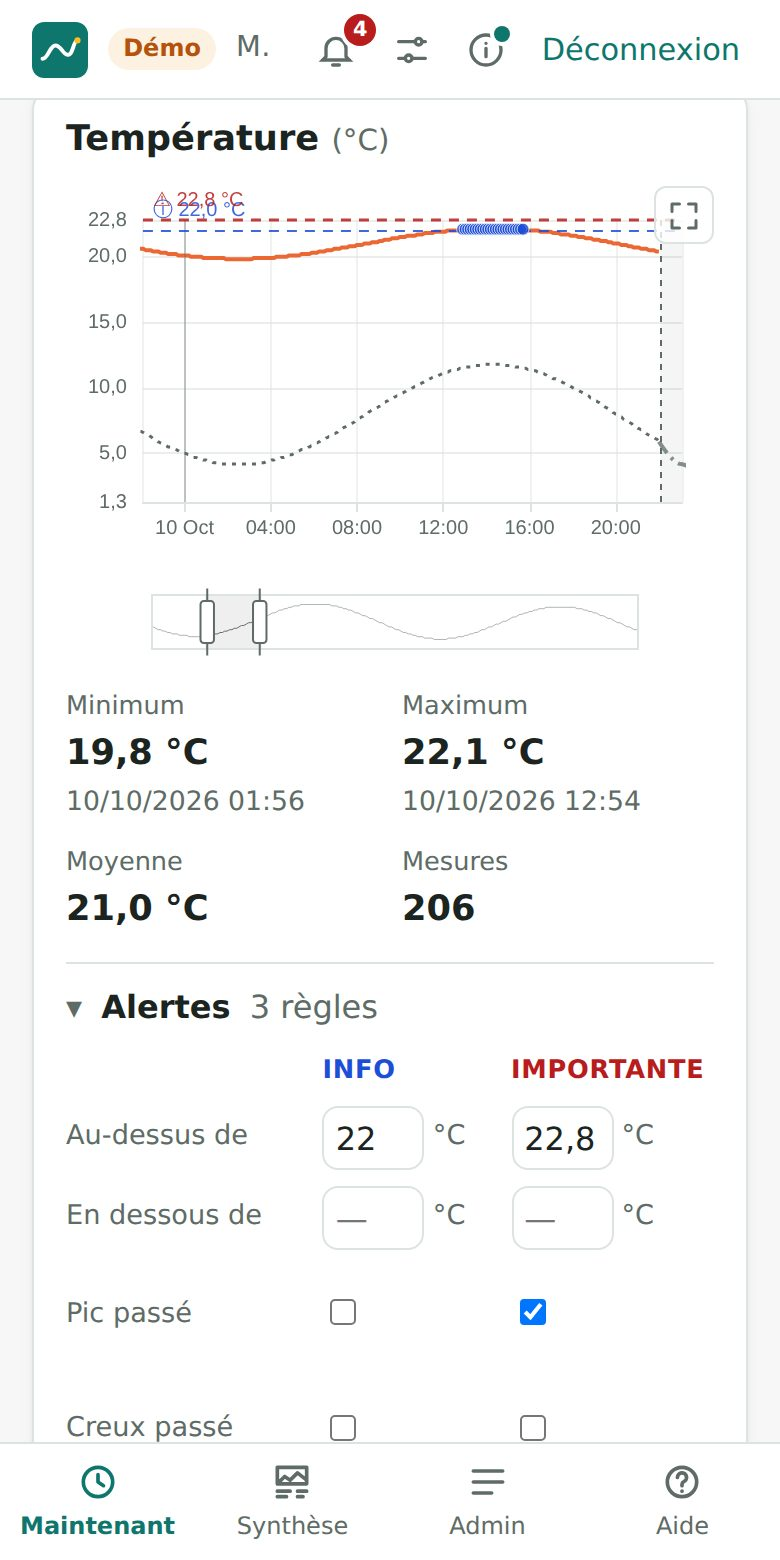
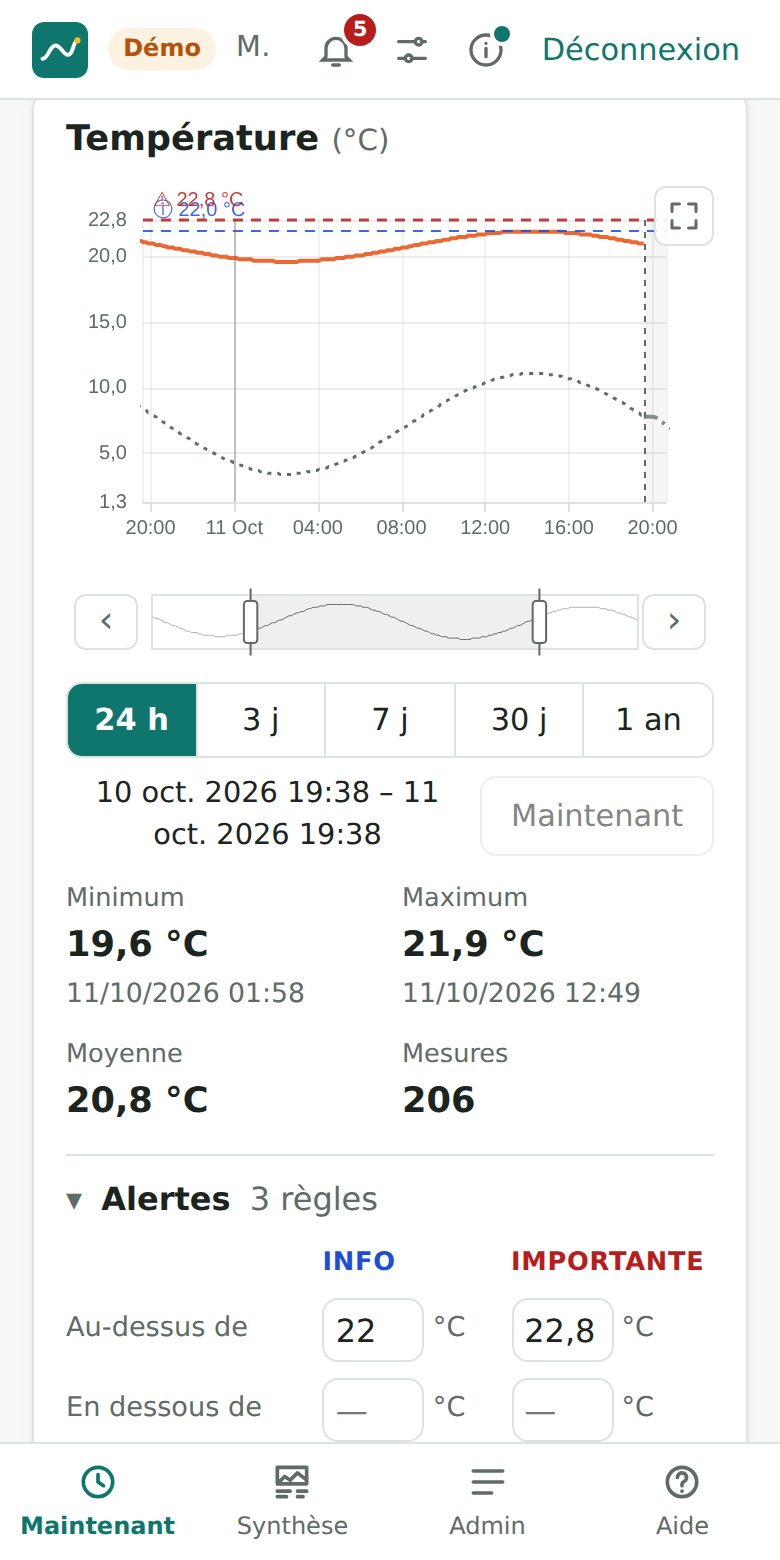
Barre de glissement adaptative et navigation ‹ › sous les courbes
- La barre sous chaque courbe s'élargit quand une poignée atteint un bord (au relâchement) et se
  remet à l'échelle quand la période est réduite (période ≈ 60 % de la barre).
- Boutons ‹ › de part et d'autre de la barre (période précédente / suivante), y compris dans la
  Synthèse ; lien « période actuelle › » pour revenir au présent.
- Durées et bouton Maintenant placés sous la barre de la première courbe.
- Axe puis fenêtre appliqués séparément lors du recalcul : la fin de la fenêtre ne dérive plus.
- Guide, nouveautés et captures mis à jour.

Claude-Session: https://claude.ai/code/session_01S8T51Gz5r7Wp5yiWDXawbP

diff --git a/web/src/components/TimeChart.svelte b/web/src/components/TimeChart.svelte
@@ -8,7 +8,7 @@
   import { onMount } from "svelte";
   import type { ECharts } from "echarts/core";
   import { cssVar } from "../lib/colors";
-  import type { Window } from "../lib/period";
+  import { barRange, needsRescale, shiftWindow, type Window } from "../lib/period";
   import type { Point } from "../lib/types";
   import { GAP, curveData, valueAt, type CurveMode } from "../lib/curve";
   import { WEEKLY_FROM, bandMain, ghostLevel, gridLines, scaleOf, weeklyBands, type DayBand } from "../lib/longview";
@@ -77,6 +77,14 @@
   let full = $state(false);
   let chart: ECharts | null = null;
   let applied: Window = [0, 0];
+  /**
+   * Étendue de la barre de glissement (et de l'axe) : un peu plus large que la fenêtre, recalculée
+   * quand une poignée atteint un bord ou que la fenêtre devient trop petite ou trop grande pour elle ;
+   * on peut ainsi continuer à glisser ou étirer sans limite
+   */
+  let bar: Window = [0, 0];
+  let dragging = false;
+  let rescaleTimer: ReturnType<typeof setTimeout> | undefined;
   let timer: ReturnType<typeof setTimeout> | undefined;
 
   const decimals = $derived(unit === "%" ? 0 : 1);
@@ -106,8 +114,11 @@
   function option() {
     const text = cssVar("--text"), muted = cssVar("--muted"), border = cssVar("--border"), surface = cssVar("--surface");
     const now = Date.now();
-    const axisMax = Math.max(loaded[1], futureEnd);
     const [ws, we] = shown(window);
+    const limit = Math.max(now, futureEnd);
+    // (jamais pendant un glissement : la barre bougerait sous le doigt ; recalcul au relâchement)
+    if (bar[1] <= bar[0] || (!dragging && needsRescale([ws, we], bar, limit))) bar = barRange([ws, we], limit);
+    const axisMax = bar[1];
     // Repères verticaux selon la largeur visible ; au-delà d'une semaine, pas de points d'alerte
     // (trop nombreux) ni de quadrillage horaire
     const scale = scaleOf([ws, we]);
@@ -146,7 +157,7 @@
       grid: oncursor ? { left: 46, right: 16, top: 12, bottom: 64, containLabel: false }
         : { left: 8, right: endLabels ? 96 : 16, top: 12, bottom: 64, containLabel: true },
       xAxis: {
-        type: "time", min: loaded[0], max: axisMax,
+        type: "time", min: bar[0], max: axisMax,
         axisLine: { lineStyle: { color: border } }, axisTick: { lineStyle: { color: border } },
         axisLabel: {
           color: muted, hideOverlap: true,
@@ -259,7 +270,7 @@
         markLine: {
           silent: true, symbol: "none", animation: false, label: { show: false },
           lineStyle: { color: muted, type: "solid", width: 1, opacity: scale === "day" ? 0.35 : 0.25 },
-          data: gridLines(loaded[0], axisMax, scale).map((t) => ({ xAxis: t })),
+          data: gridLines(bar[0], axisMax, scale).map((t) => ({ xAxis: t })),
         },
       },
       // Futur (prévisions) : zone légèrement grisée, trait « maintenant »
@@ -424,11 +435,17 @@
       });
       chart.on("datazoom", () => {
         const dz = (chart!.getOption() as { dataZoom: { startValue: number; endValue: number }[] }).dataZoom[0];
-        const w: Window = [Math.round(dz.startValue), Math.round(dz.endValue)];
+        let w: Window = [Math.round(dz.startValue), Math.round(dz.endValue)];
+        // Fin laissée sur l'heure de prévision ajoutée à l'affichage : la fenêtre reste calée sur maintenant
+        const [, se] = shown(window);
+        if (se !== window[1] && Math.abs(w[1] - se) < 5 * 60_000) w = [w[0], window[1]];
         applied = w;
         clearTimeout(timer);
         timer = setTimeout(() => onwindow?.(w), 250);
+        scheduleRescale();
       });
+      // Glissement des poignées : la barre se recalcule une fois le doigt (ou la souris) relâché
+      chart.getZr().on("mousedown", () => (dragging = true));
       render();
       ro.observe(el);
       scheme.addEventListener("change", onScheme);
@@ -458,12 +475,48 @@
     if (chart && oncursor) chart.setOption({ series: [cursorSeries()] });
   });
 
+  /** Après un glissement ou un zoom : barre recalculée si la fenêtre touche un bord ou n'est plus à l'échelle */
+  function scheduleRescale(ms = 400) {
+    clearTimeout(rescaleTimer);
+    rescaleTimer = setTimeout(() => {
+      if (dragging || !chart) return;
+      const limit = Math.max(Date.now(), futureEnd);
+      if (!needsRescale(shown(applied), bar, limit)) return;
+      const [ss, se] = shown(applied);
+      bar = barRange([ss, se], limit);
+      // Axe d'abord, fenêtre ensuite : dans un même appel, ECharts convertirait les bornes de la fenêtre
+      // en pourcentages de l'ancienne barre (la fin glisserait d'un recalcul à l'autre)
+      chart.setOption({ xAxis: { min: bar[0], max: bar[1] } });
+      chart.dispatchAction({ type: "dataZoom", startValue: ss, endValue: se });
+    }, ms);
+  }
+  onMount(() => {
+    const up = () => { if (dragging) { dragging = false; scheduleRescale(150); } };
+    addEventListener("pointerup", up);
+    addEventListener("touchend", up);
+    return () => { removeEventListener("pointerup", up); removeEventListener("touchend", up); clearTimeout(rescaleTimer); };
+  });
+
+  /** Période précédente / suivante (boutons de part et d'autre de la barre) */
+  const limitNow = () => Math.max(Date.now(), futureEnd);
+  const atLimit = $derived(window[1] >= limitNow() - 60_000);
+  function shift(dir: -1 | 1) {
+    onwindow?.(shiftWindow(window, dir, limitNow()));
+  }
+
   // Fenêtre changée par les boutons (et non par un glissement sur la courbe) : on la déplace
   $effect(() => {
     const [s, e] = window;
     if (!chart || (Math.abs(s - applied[0]) < 1000 && Math.abs(e - applied[1]) < 1000)) return;
     applied = [s, e];
     const [ss, se] = shown([s, e]);
+    const limit = Math.max(Date.now(), futureEnd);
+    // Fenêtre hors de la barre ou plus à son échelle (durée choisie, période précédente…) : nouvelle barre
+    if (needsRescale([ss, se], bar, limit)) {
+      bar = barRange([ss, se], limit);
+      render();
+      return;
+    }
     chart.dispatchAction({ type: "dataZoom", startValue: ss, endValue: se });
   });
 </script>
@@ -471,6 +524,11 @@
 <div class="box" class:full bind:this={box}>
   {#if full}<div class="full-title">{label}</div>{/if}
   <div class="chart" class:loading style={full ? "" : `height:${height}px`} bind:this={el} role="img" aria-label={label}></div>
+  {#if onwindow}
+    <!-- Période précédente / suivante, de part et d'autre de la barre de glissement -->
+    <button class="nav prev" onclick={() => shift(-1)} title="Période précédente" aria-label="Période précédente">‹</button>
+    <button class="nav next" onclick={() => shift(1)} disabled={atLimit} title="Période suivante" aria-label="Période suivante">›</button>
+  {/if}
   {#if fullscreen || full}<button class="fs" onclick={toggleFull} title={full ? "Quitter le plein écran" : "Plein écran"}
           aria-label={full ? "Quitter le plein écran" : `Plein écran : ${label}`}>
     <svg viewBox="0 0 24 24" width="18" height="18" aria-hidden="true">
@@ -487,6 +545,15 @@
   .fs { position: absolute; top: 0; right: 0; min-height: 0; padding: 0.3rem; border-radius: 6px;
         background: color-mix(in srgb, var(--surface) 80%, transparent); color: var(--muted); z-index: 2; }
   .fs:hover { color: var(--text); }
+  /* Alignés sur la barre de glissement (hauteur 28 px, à 8 px du bas, marges de 40 px) */
+  .nav { position: absolute; bottom: 8px; width: 32px; height: 28px; min-height: 0; padding: 0; justify-content: center;
+         font-size: 1.15rem; line-height: 1; border-radius: 6px; color: var(--muted); background: var(--surface); z-index: 2; }
+  .nav.prev { left: 4px; }
+  .nav.next { right: 4px; }
+  .nav:hover:not(:disabled) { color: var(--text); border-color: var(--text); }
+  .full .nav { bottom: calc(8px + max(0.5rem, env(safe-area-inset-bottom))); }
+  .full .nav.prev { left: calc(4px + max(0.5rem, env(safe-area-inset-left))); }
+  .full .nav.next { right: calc(4px + max(0.5rem, env(safe-area-inset-right))); }
   .fs svg { fill: none; stroke: currentColor; stroke-width: 2; stroke-linecap: round; stroke-linejoin: round; }
   .full { position: fixed; inset: 0; z-index: 100; background: var(--surface); display: flex; flex-direction: column;
           padding: max(0.5rem, env(safe-area-inset-top)) max(0.5rem, env(safe-area-inset-right))

diff --git a/web/src/components/PeriodBar.svelte b/web/src/components/PeriodBar.svelte
@@ -11,12 +11,8 @@
   const width = $derived(window[1] - window[0]);
   const atNow = $derived(window[1] >= Date.now() - 60_000);
 
+  // (période précédente / suivante : boutons ‹ › de part et d'autre de la barre de glissement des courbes)
   const setWidth = (ms: number) => onchange([window[1] - ms, window[1]]);
-  const shift = (dir: -1 | 1) => {
-    const now = Date.now();
-    const end = Math.min(window[1] + dir * width, now);
-    onchange([end - width, end]);
-  };
   const toNow = () => onchange([Date.now() - width, Date.now()]);
 </script>
 
@@ -28,21 +24,18 @@
     {/each}
   </div>
   <div class="nav">
-    <button onclick={() => shift(-1)} aria-label="Période précédente" title="Période précédente">‹</button>
     <span class="range num" aria-live="polite">{fmtRange(window)}{#if loading}<span class="dot" aria-hidden="true"></span>{/if}</span>
-    <button onclick={() => shift(1)} disabled={atNow} aria-label="Période suivante" title="Période suivante">›</button>
     <button onclick={toNow} disabled={atNow}>Maintenant</button>
   </div>
 </div>
 
 <style>
-  .period { display: flex; flex-wrap: wrap; gap: 0.5rem 1rem; align-items: center; }
+  .period { display: flex; flex-wrap: wrap; gap: 0.5rem 1rem; align-items: center; margin-top: 0.5rem; }
   .presets { display: flex; border: 1px solid var(--border); border-radius: 8px; overflow: hidden; flex: 0 1 auto; }
   .presets button { border: none; border-radius: 0; min-height: 2.25rem; padding: 0.35rem 0.7rem; flex: 1; justify-content: center; white-space: nowrap; }
   .presets button + button { border-left: 1px solid var(--border); }
   .presets button.active { background: var(--primary); color: var(--primary-text); font-weight: 600; }
   .nav { display: flex; align-items: center; gap: 0.35rem; flex: 1 1 20rem; min-width: 0; }
-  .nav > button:not(:last-child) { min-width: 2.5rem; justify-content: center; font-size: 1.2rem; padding: 0.2rem 0.6rem; }
   .range { font-size: 0.9rem; flex: 1; min-width: 0; text-align: center; }
   @media (max-width: 600px) { .presets { flex: 1 1 100%; } }
   .dot { display: inline-block; width: 6px; height: 6px; border-radius: 50%; background: var(--primary);

diff --git a/web/tests/period.test.ts b/web/tests/period.test.ts
@@ -1,6 +1,6 @@
 import { test } from "node:test";
 import assert from "node:assert/strict";
-import { followsNow, loadRange, needsReload } from "../src/lib/period.ts";
+import { barRange, followsNow, loadRange, needsReload, needsRescale, shiftWindow } from "../src/lib/period.ts";
 
 const H = 3_600_000;
 const NOW = Date.UTC(2026, 9, 8, 12);
@@ -22,4 +22,24 @@ test("fenêtre qui suit maintenant", () => {
   assert.ok(followsNow([NOW - 24 * H, NOW - 5 * 60_000], NOW));
   assert.ok(!followsNow([NOW - 48 * H, NOW - 24 * H], NOW));
   assert.ok(!followsNow([NOW, NOW + 24 * H], NOW));   // glissée dans le futur : on la laisse
+});
+
+test("barre de glissement : la fenêtre en occupe ½ à ¾, et elle s'étend quand on atteint un bord", () => {
+  const w: [number, number] = [NOW - 48 * H, NOW - 24 * H];
+  const bar = barRange(w, NOW);
+  assert.deepEqual(bar, [NOW - 56 * H, NOW - 16 * H]);                       // 24 h sur 40 h : 60 %
+  assert.ok(!needsRescale(w, bar, NOW));
+  // Poignée gauche amenée contre le bord : la barre doit s'élargir
+  assert.ok(needsRescale([NOW - 56 * H, NOW - 24 * H], bar, NOW));
+  // Fenêtre très réduite : la barre se remet à l'échelle
+  assert.ok(needsRescale([NOW - 30 * H, NOW - 28 * H], bar, NOW));
+  // Calée sur maintenant : 75 %, bord droit = limite, pas de recalcul
+  const atNow: [number, number] = [NOW - 24 * H, NOW];
+  assert.deepEqual(barRange(atNow, NOW), [NOW - 32 * H, NOW]);
+  assert.ok(!needsRescale(atNow, barRange(atNow, NOW), NOW));
+});
+
+test("période précédente / suivante, sans dépasser maintenant", () => {
+  assert.deepEqual(shiftWindow([NOW - 24 * H, NOW], -1, NOW), [NOW - 48 * H, NOW - 24 * H]);
+  assert.deepEqual(shiftWindow([NOW - 30 * H, NOW - 6 * H], 1, NOW), [NOW - 24 * H, NOW]);
 });

diff --git a/web/src/lib/period.ts b/web/src/lib/period.ts
@@ -33,6 +33,32 @@ export function needsReload([s, e]: Window, [ls, le]: Window, now = Date.now()):
 /** Fenêtre calée sur « maintenant » (à faire suivre le temps qui passe) ; pas une fenêtre glissée dans le passé ou le futur */
 export const followsNow = ([, e]: Window, now = Date.now()) => Math.abs(e - now) <= 10 * 60_000;
 
+/**
+ * Étendue de la barre de glissement sous une courbe : la fenêtre en occupe 60 % (75 % calée sur la
+ * limite : maintenant, ou la fin des prévisions), avec de la marge de chaque côté pour continuer à
+ * glisser ou à étirer les poignées.
+ */
+export function barRange([s, e]: Window, limit: number): Window {
+  const m = (e - s) / 3;
+  return [s - m, Math.max(e, Math.min(e + m, limit))];
+}
+
+/**
+ * Barre à recalculer : fenêtre trop petite ou trop grande pour elle (hors de ½ – ¾ environ), ou
+ * poignée amenée contre un bord (sauf la limite, qu'on ne dépasse pas)
+ */
+export function needsRescale([s, e]: Window, [bs, be]: Window, limit: number): boolean {
+  const bw = be - bs, ratio = (e - s) / bw, edge = 0.02 * bw;
+  return ratio < 0.45 || ratio > 0.8 || s - bs < edge || (be - e < edge && be < limit - 60_000);
+}
+
+/** Période précédente (-1) ou suivante (+1), sans dépasser la limite */
+export function shiftWindow([s, e]: Window, dir: -1 | 1, limit: number): Window {
+  const w = e - s;
+  const end = Math.min(e + dir * w, Math.max(limit, e));
+  return [end - w, end];
+}
+
 export function fmtRange([s, e]: Window): string {
   const sameDay = new Date(s).toDateString() === new Date(e - 1).toDateString();
   const d = (t: number) => new Date(t).toLocaleDateString("fr-FR", { day: "numeric", month: "short", year: "numeric" });

diff --git a/web/src/pages/Summary.svelte b/web/src/pages/Summary.svelte
@@ -121,6 +121,12 @@
     if (needsReload(w, loaded) || otherView(w, loadedKey)) load(loadRange(w));
   }
 
+  /** Curseur à maintenant, et période ramenée au présent si on a navigué dans le temps */
+  function backToNow() {
+    cursor = null;
+    if (!followsNow(win)) setWindow([Date.now() - (win[1] - win[0]), Date.now()]);
+  }
+
   function addNew() {
     location.hash = `#/courbes?d=${encodeURIComponent(addDashboard(ctx.homeId))}`;
   }
@@ -340,9 +346,10 @@
           {#if bandMode}<small class="muted">min – max du jour ({shownProps.map((p) => p.unit).join(", ")})</small>{/if}
           {#if cursor !== null}
             <small class="muted">{at > Date.now() ? `prévision, ${fmtIn(at)}` : fmtAgo(new Date(at).toISOString(), Date.now())}</small>
-            <button class="link" onclick={() => (cursor = null)}>maintenant ›</button>
-          {:else if !bandMode}
-            <small class="muted">{new Date(now).toLocaleTimeString("fr-FR", { hour: "2-digit", minute: "2-digit" })}</small>
+            <button class="link" onclick={backToNow}>maintenant ›</button>
+          {:else}
+            {#if !bandMode}<small class="muted">{new Date(now).toLocaleTimeString("fr-FR", { hour: "2-digit", minute: "2-digit" })}</small>{/if}
+            {#if !followsNow(win)}<button class="link" onclick={backToNow} title="Revenir à la période actuelle">période actuelle ›</button>{/if}
           {/if}
         </div>
         <ul>

diff --git a/web/src/pages/Charts.svelte b/web/src/pages/Charts.svelte
@@ -258,7 +258,6 @@
   <small class="muted">Emplacements, durée, grandeurs et rendu de cette page de synthèse. Une autre synthèse se crée avec
     le bouton + de la page Synthèse.</small>
 
-  <PeriodBar window={win} onchange={setWindow} {loading} />
 
   {#if error}<div class="notice err" role="alert">{error}</div>{/if}
 
@@ -312,11 +311,12 @@
     {#if selected.length === 0}
       <div class="card muted">Choisissez un ou plusieurs emplacements ci-dessus (ou la moyenne d'un groupe).</div>
     {:else}
-      {#each charts as [prop, c] (prop)}
+      {#each charts as [prop, c], i (prop)}
         <section class="card">
           <h2>{c.title} <small class="muted">({c.unit})</small></h2>
           <TimeChart series={c.series} unit={c.unit} {loaded} window={win} onwindow={setWindow} {loading}
                      curve={display.curve} alertPoints={markersOf(prop)} alertsWideOnly group="courbes" label="{c.title} : {c.series.map((s) => s.name).join(', ')}" />
+          {#if i === 0}<PeriodBar window={win} onchange={setWindow} {loading} />{/if}
         </section>
       {/each}
       <small class="muted">Toucher ou survoler une courbe pour lire les valeurs ; zoomer à deux doigts ou à la molette ;

diff --git a/web/src/pages/Place.svelte b/web/src/pages/Place.svelte
@@ -383,14 +383,13 @@
     </section>
   {/if}
 
-  <PeriodBar window={win} onchange={setWindow} {loading} />
   {#if sorted.length}<DisplayBar {properties} />{/if}
 
   {#if series && series.length === 0}
     <div class="card muted">Aucun capteur n'est affecté à cet emplacement.</div>
   {/if}
 
-  {#each shownSeries as s (s.id)}
+  {#each shownSeries as s, i (s.id)}
     {@const st = stats.get(s.id)}
     <section class="card">
       <h2>{s.property_name} <small class="muted">({s.unit})</small></h2>
@@ -402,6 +401,8 @@
                  unit={s.unit} {loaded} window={win} onwindow={setWindow} {loading} height={240}
                  curve={display.curve} thresholds={thresholdsOf(s.id)} alertPoints={alertPointsOf(s.id)} gaps={gapsOf(s.id)} cutAfter={gapOf(s.id)}
                  group="lieu-{placeId}" label="{s.property_name} – {name}" />
+      <!-- Durée et retour à maintenant, sous la première courbe (les courbes de la page bougent ensemble) -->
+      {#if i === 0}<PeriodBar window={win} onchange={setWindow} {loading} />{/if}
       {#if st}
         <dl class="stats">
           <div><dt>Minimum</dt><dd class="num">{fmtValue(st.vmin, s.unit)}</dd><small>{fmtDate(st.tmin)}</small></div>

diff --git a/web/src/pages/Group.svelte b/web/src/pages/Group.svelte
@@ -198,14 +198,14 @@
     <small>dernière mesure {fmtAgo(lastTs)}</small>
   </section>
 
-  <PeriodBar window={win} onchange={setWindow} {loading} />
   {#if properties.length}<DisplayBar {properties} />{/if}
 
-  {#each charts as c (c.prop)}
+  {#each charts as c, i (c.prop)}
     <section class="card">
       <h2>{c.title} <small class="muted">({c.unit})</small></h2>
       <TimeChart series={c.curves} unit={c.unit} {loaded} window={win} onwindow={setWindow} {loading}
                  curve={display.curve} group="groupe-{placeId}" label="{c.title} – {node.name}" />
+      {#if i === 0}<PeriodBar window={win} onchange={setWindow} {loading} />{/if}
     </section>
   {/each}
 

diff --git a/docs/guide-utilisateur.md b/docs/guide-utilisateur.md
@@ -69,6 +69,8 @@ réglage, et dessous (à côté en paysage) la **légende avec les valeurs**.
   <img src="images/icones/alerte.svg" alt="⚠" height="16"> en cas d'alerte.
 - **Toucher ou glisser sur la courbe** pour lire un autre instant : la date s'affiche avec
   « il y a… » ; **maintenant ›** revient au présent.
+- **‹ ›** sous chaque courbe : période **précédente** ou **suivante** ; la barre entre les deux
+  s'étire avec ses poignées. **période actuelle ›** revient au présent.
 - Groupe : son nom suivi du nombre d'emplacements moyennés, ex. « Jardin (3) ».
 - **Mettre une courbe en évidence** : survoler sa ligne à la souris, ou toucher ses **valeurs** sur le
   téléphone (toucher de nouveau pour revenir) ; les autres courbes s'estompent. Le **nom** ouvre
@@ -84,10 +86,16 @@ toutes les pages.
 
 - **Choisir les emplacements** en touchant leurs noms (12 courbes au plus).
 - **Emplacement parent** (bouton en pointillé) : **moyenne** de ses sous-emplacements, en tirets.
-- **Période** : 24 h à 1 an ; **‹ ›** pour reculer ou avancer ; **Maintenant** pour revenir au présent.
+- **Période** : 24 h à 1 an, sous la barre de la première courbe ; **Maintenant** pour revenir au présent.
 - **Lire les valeurs** : toucher la courbe et glisser le doigt ; l'infobulle donne la valeur de
   **chaque courbe** à cet instant, de la plus haute à la plus basse.
 - **Zoomer** : à deux doigts (ou molette) ; **se déplacer** : faire glisser la barre sous la courbe.
+- **Barre de glissement** (sous chaque courbe, ici comme dans la Synthèse et les pages d'emplacement
+  ou de groupe) : tirer une poignée étire ou réduit la période. Elle s'adapte toute seule : quand
+  une poignée arrive au bout, la barre s'élargit au relâchement (on peut tirer de nouveau pour aller
+  plus loin) ; quand la période devient petite, elle se remet à l'échelle (la période en occupe
+  environ les deux tiers). **‹ ›** de part et d'autre : période **précédente** ou **suivante** (même
+  durée) ; **›** est grisé au présent (ou à la fin des prévisions).
 - <img src="images/icones/plein-ecran.svg" alt="plein écran" height="16"> **Plein écran**, en haut
   à droite de chaque courbe ([écran](#ecran-plein-ecran)), avec un quadrillage plus fin.
 - **Rendu** : *Escalier* (fidèle aux mesures), *Lissé*, *Simplifié* (sans les marches dues à

diff --git a/docs/nouveautes.md b/docs/nouveautes.md
@@ -5,6 +5,14 @@
 -->
 
 
+## 11 octobre 2026
+- **Barre de glissement plus intelligente** sous les courbes : quand une poignée arrive au bout, la
+  barre s'élargit (on peut aller toujours plus loin dans le passé) ; quand la période est réduite,
+  elle se remet à l'échelle.
+- Boutons **‹ ›** de part et d'autre de la barre (période précédente / suivante), aussi dans la
+  **Synthèse** ; lien « période actuelle › » pour revenir au présent.
+- Choix de la durée (24 h… 1 an) et bouton **Maintenant** placés juste sous la barre de la première courbe.
+
 ## 10 octobre 2026
 - **Synthèses et préférences enregistrées dans le compte** : les mêmes sur le téléphone et
   l'ordinateur (sauf taille du texte et présentation compacte, propres à chaque appareil).
